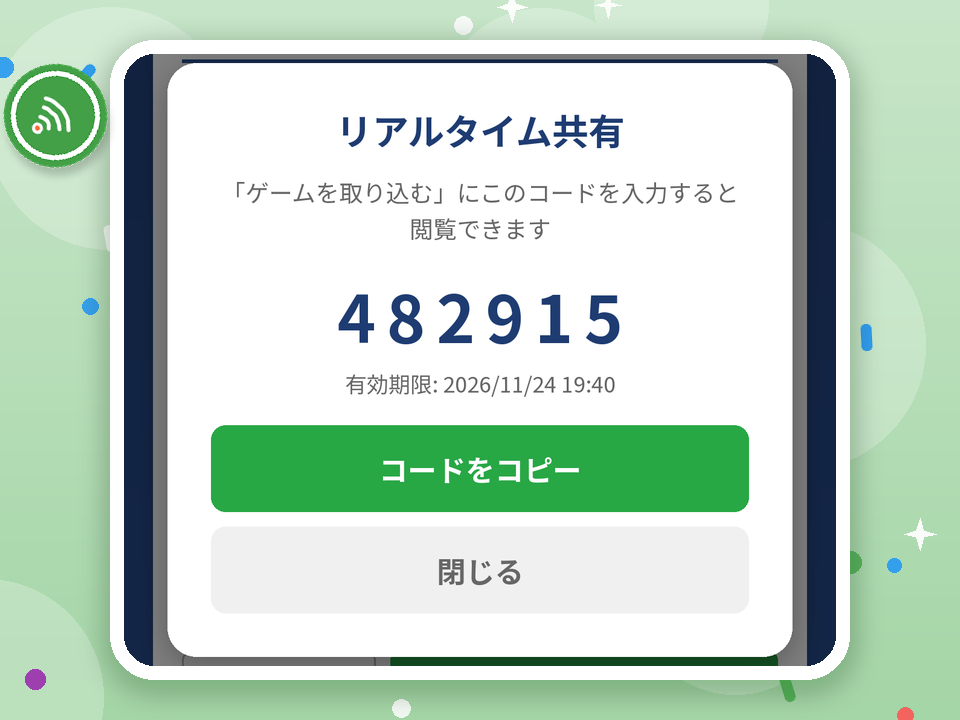
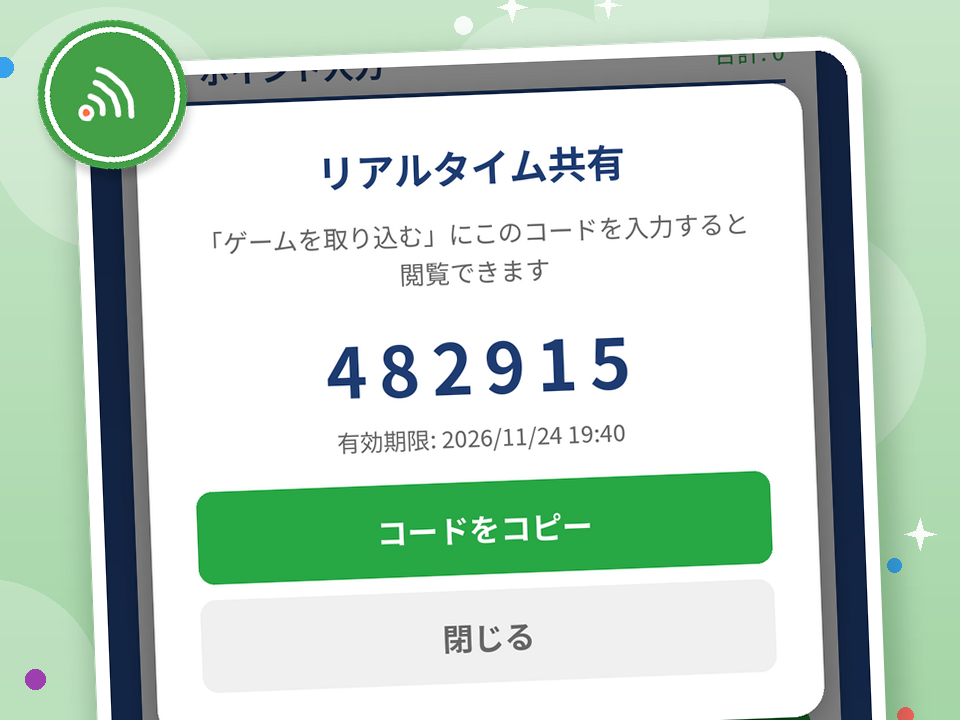
使い方ガイド画像を PR #75 のデザイン（傾いたカード＋角に重なる丸ステッカー）に戻す (#100)
PR #82 で行ったガイド画像生成の変更（カードを傾けずに中央配置、
ステッカーを余白に小さく配置）を取り消し、assets/guide の7枚を再生成。

Claude-Session: https://claude.ai/code/session_01QezeZkpopVs4upfchGtT3f

diff --git a/generate_assets.py b/generate_assets.py
@@ -1510,19 +1510,14 @@ YELLOW_LIVE = (249, 168, 37)  # #f9a825
 # ──────────────────────────────────────────────
 # 使い方のモーダルは正方形に近い比率で表示するため、画像は 4:3 で作る（Issue #72）。
 # Issue #74: 明るく楽しいトーンに作り替え。ページごとのパステル調のグラデーション背景に
-# 紙吹雪を散らし、各ページで説明する部分の画面を「カード」として載せ、
+# 紙吹雪を散らし、各ページで説明する部分の画面を「カード」として少し傾けて載せ、
 # アプリの手書き風アイコンをステッカーのように貼る。説明文はアプリ側で一言だけ添える。
-# Issue #80: カードは傾けず、全体が画像内に収まるよう中央に均等な余白で配置する
-# （傾きのせいで端に寄り、文字が見切れていたため）。
 
 GUIDE_ASPECT = 3 / 4          # 高さ / 幅（出力画像）
 GUIDE_OUT_W = 960             # 出力する画像の幅（px）
-GUIDE_CARD_BORDER = 14        # カードの白いフチ（px）
-GUIDE_CARD_MARGIN_Y = 40      # カード（フチ込み）の上下の余白（px）。上下で同じ
-GUIDE_CARD_ASPECT = 0.86      # 切り出す画面の 高さ / 幅（従来とほぼ同じ範囲が見えるように）
-# 画面の高さは上下の余白から決め、幅は比率から決める。左右の余白は中央寄せで同じになる
-GUIDE_CARD_H = int(round(GUIDE_OUT_W * GUIDE_ASPECT)) - 2 * GUIDE_CARD_MARGIN_Y - 2 * GUIDE_CARD_BORDER
-GUIDE_CARD_W = int(round(GUIDE_CARD_H / GUIDE_CARD_ASPECT))
+GUIDE_CARD_W = 760            # 画面カードの幅（px）
+GUIDE_CARD_TOP = 64           # 画面カードの上端（px）。下端は画像の外まではみ出させる
+GUIDE_CARD_ASPECT = (GUIDE_OUT_W * GUIDE_ASPECT - GUIDE_CARD_TOP + 40) / GUIDE_CARD_W  # 切り出す高さ / 幅
 GUIDE_SEED = 74
 
 # ページごとの明るい配色（背景グラデーション上・下、アクセント）。SetupScreen の GUIDE_THEMES と揃える
@@ -1588,14 +1583,15 @@ def save_guide(sc, top_dp, output_path, index):
     top = max(0.0, min(top_dp, sc.hdp - crop_h))
     box = (0, sc.px(top), sc.w, sc.px(top) + int(round(sc.w * GUIDE_CARD_ASPECT)))
     shot = img.crop(box).convert('RGBA')
-    cw, ch = GUIDE_CARD_W, GUIDE_CARD_H
+    cw = GUIDE_CARD_W
+    ch = int(round(cw * GUIDE_CARD_ASPECT))
     shot = shot.resize((cw, ch), Image.LANCZOS)
 
     out, accent = _guide_background(index)
     W, H = out.size
 
-    # カード: 白い太めのフチ + 角丸 + やわらかい影。傾けずに中央へ置く（Issue #80）
-    border = GUIDE_CARD_BORDER
+    # カード: 白い太めのフチ + 角丸 + やわらかい影。左右交互に少しだけ傾ける
+    border = 14
     radius = 30
     card = Image.new('RGBA', (cw + border * 2, ch + border * 2), (0, 0, 0, 0))
     ImageDraw.Draw(card).rounded_rectangle((0, 0, card.width - 1, card.height - 1), radius=radius + border,
@@ -1603,19 +1599,22 @@ def save_guide(sc, top_dp, output_path, index):
     mask = Image.new('L', shot.size, 0)
     ImageDraw.Draw(mask).rounded_rectangle((0, 0, cw - 1, ch - 1), radius=radius, fill=255)
     card.paste(shot, (border, border), mask)
-    card_x = (W - card.width) // 2
-    card_y = (H - card.height) // 2
-    shadow = Image.new('RGBA', (W, H), (0, 0, 0, 0))
-    ImageDraw.Draw(shadow).rounded_rectangle((card_x, card_y + 8, card_x + card.width, card_y + card.height + 8),
+    angle = 2.2 if index % 2 == 0 else -2.2
+    pad = 60
+    holder = Image.new('RGBA', (card.width + pad * 2, card.height + pad * 2), (0, 0, 0, 0))
+    shadow = Image.new('RGBA', holder.size, (0, 0, 0, 0))
+    ImageDraw.Draw(shadow).rounded_rectangle((pad + 6, pad + 14, pad + card.width + 6, pad + card.height + 14),
                                              radius=radius + border, fill=accent + (110,))
-    shadow = shadow.filter(ImageFilter.GaussianBlur(14))
-    out.alpha_composite(shadow)
-    out.alpha_composite(card, dest=(card_x, card_y))
+    shadow = shadow.filter(ImageFilter.GaussianBlur(16))
+    holder.alpha_composite(shadow)
+    holder.alpha_composite(card, dest=(pad, pad))
+    holder = holder.rotate(angle, resample=Image.BICUBIC)
+    cx = W // 2
+    out.alpha_composite(holder, dest=(cx - holder.width // 2, GUIDE_CARD_TOP - border - pad))
 
-    # 手書き風アイコンのステッカー（白い丸の台紙に貼る）
-    # Issue #80: カードの中身を隠さないよう、左右の余白に収まる大きさで余白の中に貼る
+    # 手書き風アイコンのステッカー（白い丸の台紙に貼って、カードの角に重ねる）
     sticker = ICONS[GUIDE_STICKERS[index]]
-    sr = min(56, card_x // 2 - 4)
+    sr = 74
     disc = Image.new('RGBA', (sr * 2 + 40, sr * 2 + 40), (0, 0, 0, 0))
     dd = ImageDraw.Draw(disc)
     dd.ellipse((20 + 4, 20 + 8, 20 + sr * 2 + 4, 20 + sr * 2 + 8), fill=(0, 0, 0, 50))
@@ -1632,9 +1631,8 @@ def save_guide(sc, top_dp, output_path, index):
     disc.alpha_composite(ic, dest=(20 + sr - ic.width // 2, 20 + sr - ic.height // 2))
     left = GUIDE_STICKER_LEFT[index]
     disc = disc.rotate(-10 if left else 10, resample=Image.BICUBIC)
-    scx = card_x // 2 if left else W - card_x // 2
-    scy = card_y + sr + 24
-    out.alpha_composite(disc, dest=(scx - disc.width // 2, scy - disc.height // 2))
+    sx = 18 if left else W - disc.width - 18
+    out.alpha_composite(disc, dest=(sx, 0))
 
     out = out.convert('RGB')
     out.save(output_path, 'PNG', optimize=True)
